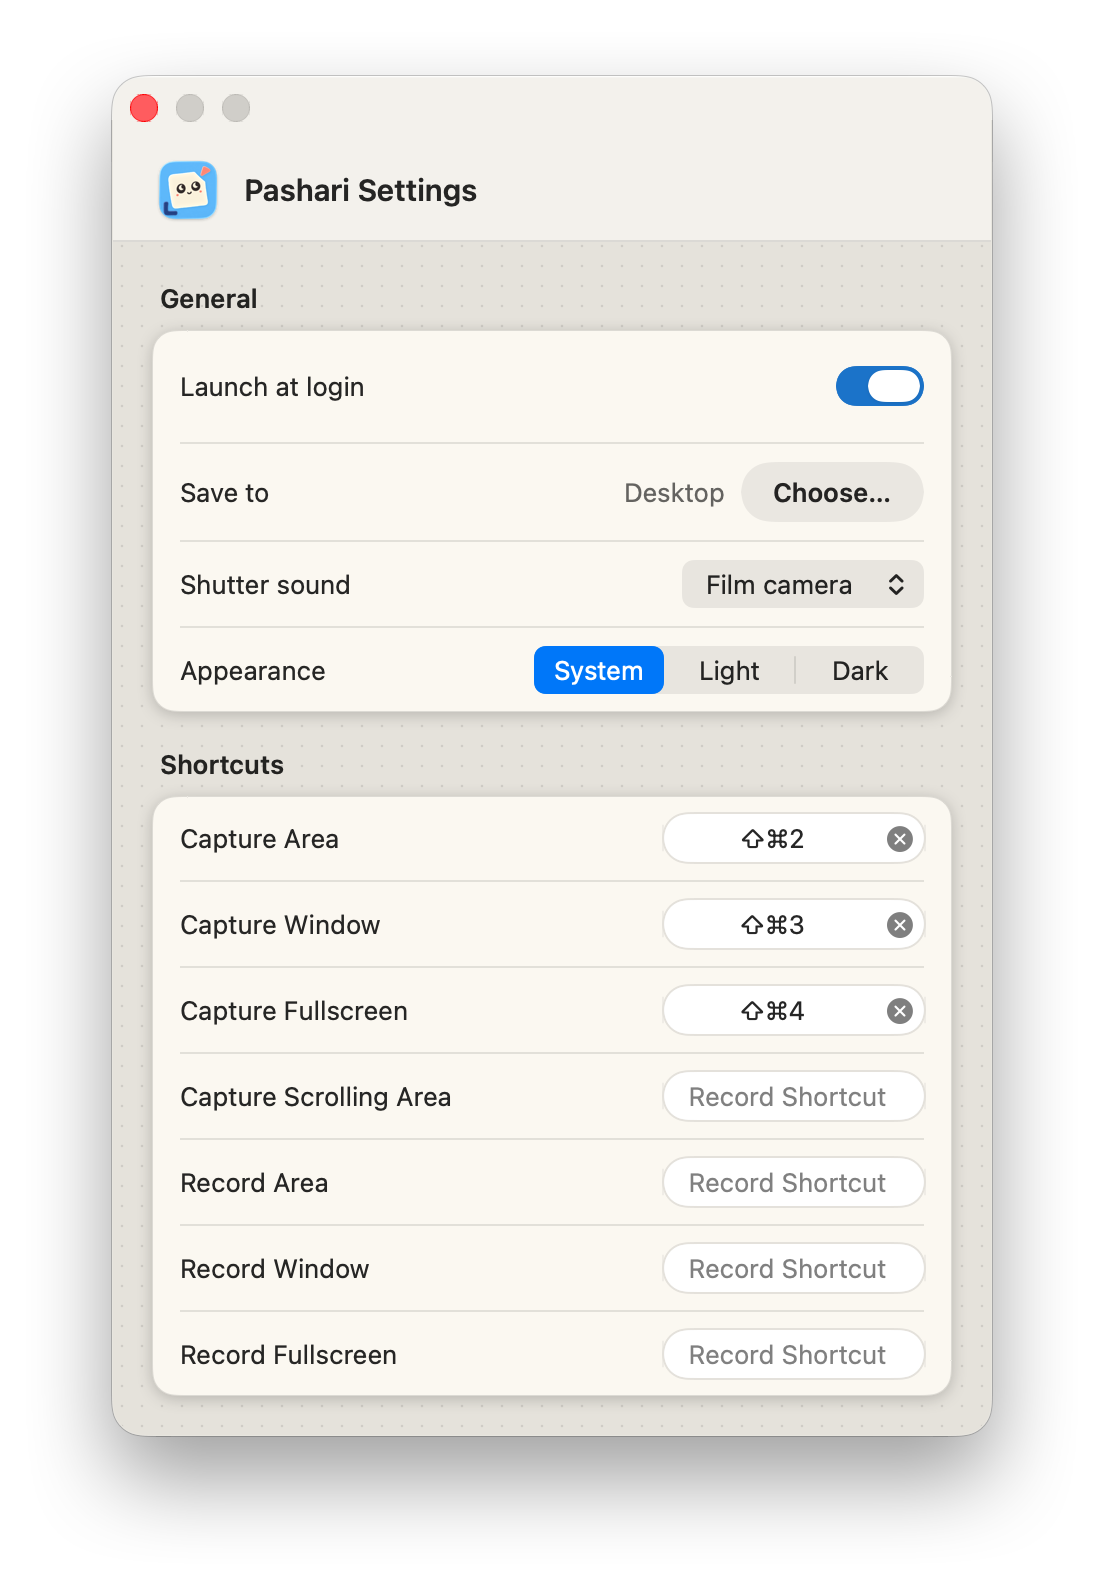
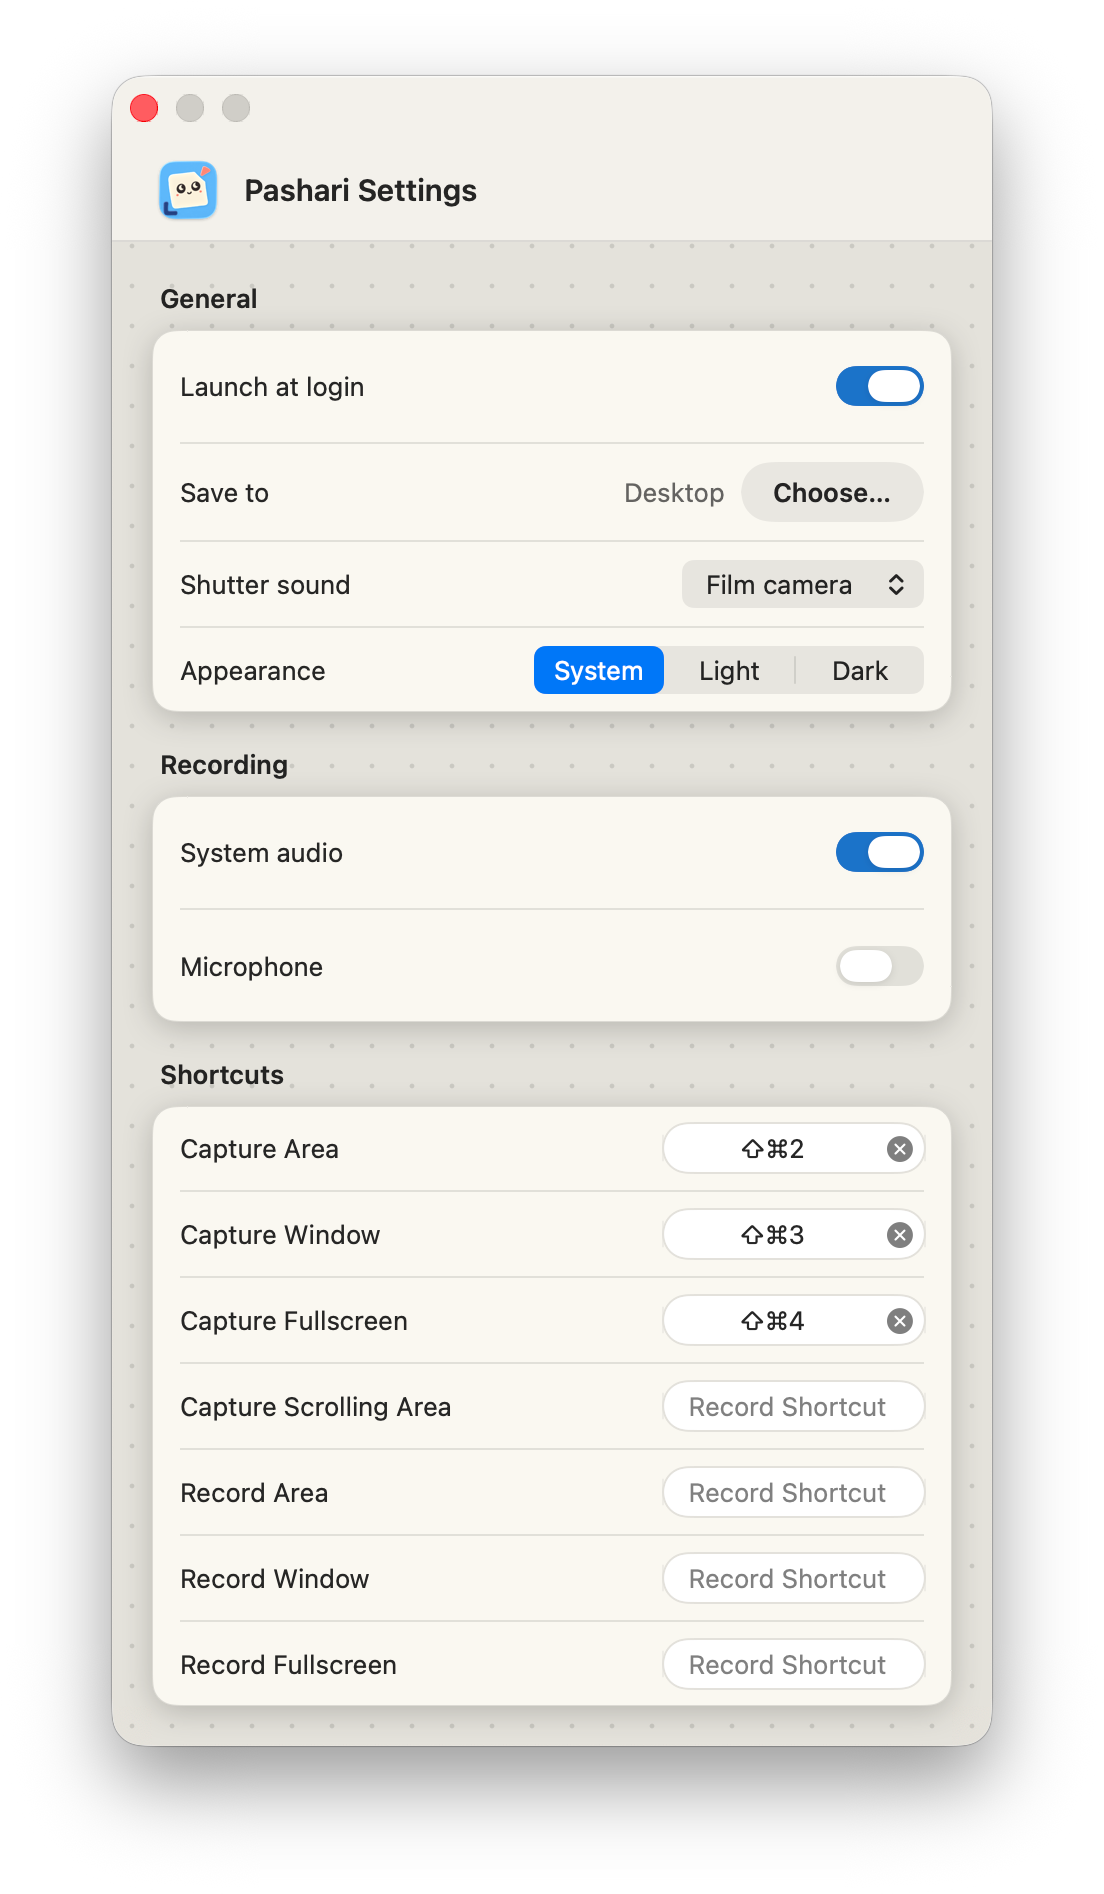
docs: show the recording audio switches in the Settings picture

Changed region(s): [[0.0924, 0.0309, 0.8931, 0.928], [0.5851, 0.2475, 0.6467, 0.2784], [0.3696, 0.7424, 0.4004, 0.7734]]

diff --git a/README.md b/README.md
@@ -71,7 +71,7 @@ behind the notch, open Pashari again from Spotlight or the Finder and
 Settings appears.
 
 <p align="center">
-  <img src="docs/images/settings.png" width="480" alt="Pashari Settings: launch at login, the folder captures are saved to, the shutter sound set to Film camera, the appearance, and the hotkeys for capturing an area, a window and the full screen. Capture Scrolling Area, Record Area, Record Window and Record Fullscreen have none yet.">
+  <img src="docs/images/settings.png" width="480" alt="Pashari Settings: launch at login, the folder captures are saved to, the shutter sound set to Film camera, the appearance, system audio turned on and the microphone off for recordings, and the hotkeys for capturing an area, a window and the full screen. Capture Scrolling Area, Record Area, Record Window and Record Fullscreen have none yet.">
 </p>
 
 ### Scroll capture
